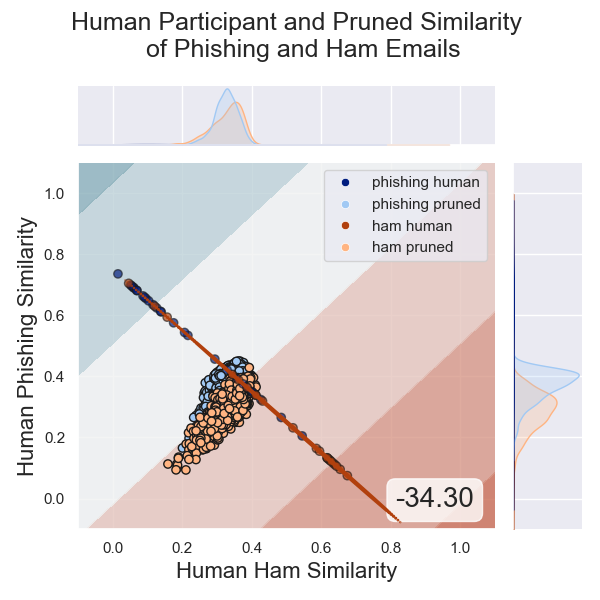
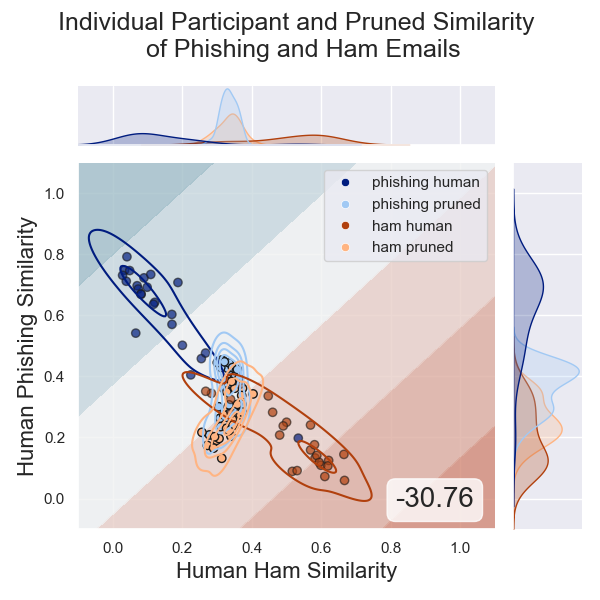
adding figure 7 subfigures

diff --git a/generatePlots.py b/generatePlots.py
@@ -84,12 +84,14 @@ if __name__ == '__main__':
                     help='This similarity metric will be classified using all other similarity metrics in the dataframe, as is done in the paper.')
     
     args = parser.parse_args()
+    adf = pd.read_pickle("./Database/Annotations.pkl")
 
     df = pd.read_pickle(args.dataPath)
     args.legendLoc = " ".join(args.legendLoc.split("-"))
     if(args.participant != 'all'):
         if(args.participant == 'random'):
-            id = np.random(0,len(df['UserId'].unique()))
+            adf = adf[adf['UserId'] == adf['UserId'].unique()[20]]
+            df = df[df['Document Id'].isin(adf['EmailId'].unique())]
 
     # list of (estimator, param_grid), where param_grid is used in GridSearchCV
     # The parameter spaces in this example are limited to a narrow band to reduce
@@ -164,7 +166,10 @@ if __name__ == '__main__':
         n_samples = 100
 
         if(len(list(df['Similarity Metric'].unique())) > 1):
-            g.figure.suptitle("Human Participant and " + classifier.capitalize() + " Similarity \n of Phishing and Ham Emails", fontsize=18)
+            if(args.participant == 'random'):
+                g.figure.suptitle("Individual Participant and " + classifier.capitalize() + " Similarity \n of Phishing and Ham Emails", fontsize=18)
+            else:
+                g.figure.suptitle("Human Participant and " + classifier.capitalize() + " Similarity \n of Phishing and Ham Emails", fontsize=18)
         else:
             g.figure.suptitle("Human Participant Similarity \n of Phishing and Ham Emails", fontsize=18)
 

diff --git a/generateSims.py b/generateSims.py
@@ -190,10 +190,10 @@ if __name__ == '__main__':
     if(len(metrics) == 0):                                              # There must be at least one similarity in the list. 
         raise Exception("No similarity metrics found, the default options are [human,cosine,weighted,pruned,semantic,ibis,custom], note that these are case sensative. If you are adding a custom similarity metric ensure that it is properly added to the __init__.py file import.")
 
-    if(args.individual):
+    """if(args.individual):
         # adf.sample(n=1, random_state=123)['UserId'].item()
         adf = adf[adf['UserId'] == adf['UserId'].unique()[20]]
-        ddf = ddf[ddf['EmailId'].isin(adf['EmailId'].unique())]
+        ddf = ddf[ddf['EmailId'].isin(adf['EmailId'].unique())]"""
 
     for metric in metrics:                                              # Iterrate through all similarity metrics selected 
         metric.set_documents(ddf)
